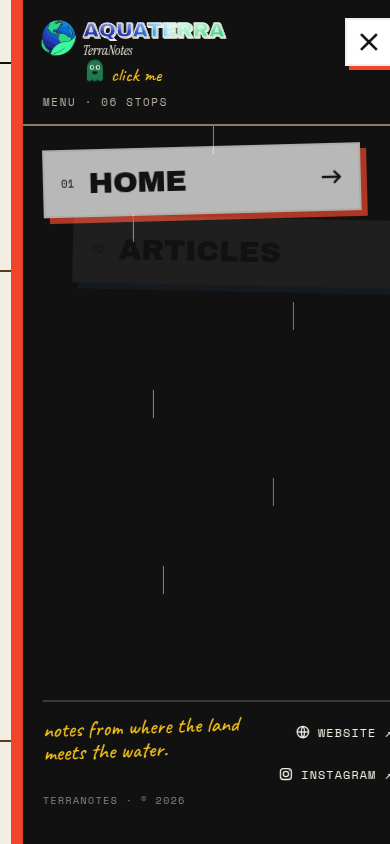
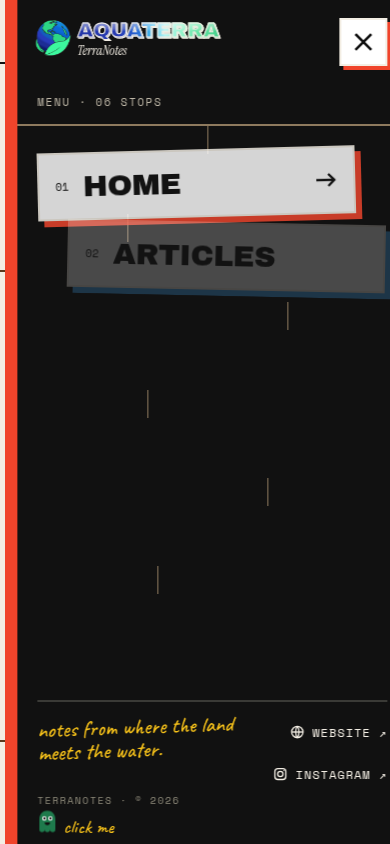
Buddy: menu call at the bottom, no hut, rope pulls back up, nicer tricks
- Phone menu: "click me" moves to the bottom, under "TerraNotes".
- Phone home: no hut; he floats in next to the intro card.
- Web: the rope lowers him, then pulls back up and leaves him floating.
- Swap the squash and melt tricks for a hop and a vanish.

Claude-Session: https://claude.ai/code/session_01CgW7HxbCpt5fYjBJ3ADamc

diff --git a/src/styles/buddy.css b/src/styles/buddy.css
@@ -13,37 +13,35 @@
 .buddy-ghost:focus-visible{outline:2px dashed #7B5CE6;outline-offset:4px}
 .buddy-trick{display:block;transform-origin:50% 60%}
 
-/* roping down from under the header */
-.buddy-swing{transform-origin:32px 0;animation:buddySwing 3.4s ease-in-out infinite alternate}
-.buddy-arrive .buddy-line{transform-origin:50% 0;animation:buddyRope 1.9s cubic-bezier(.3,.1,.3,1) both}
-.buddy-arrive .buddy-hang{animation:buddyDrop 1.9s cubic-bezier(.3,.1,.3,1) both}
-.buddy-arrive .buddy-swing{animation:buddySwing 3.4s ease-in-out 1.9s infinite alternate}
-@keyframes buddyRope{from{transform:scaleY(0)}to{transform:scaleY(1)}}
-@keyframes buddyDrop{0%{transform:translateY(-108px);opacity:0}8%{opacity:1}84%{transform:translateY(6px)}92%{transform:translateY(-3px)}100%{transform:translateY(0)}}
-@keyframes buddySwing{from{transform:rotate(-3deg)}to{transform:rotate(3deg)}}
+/* roping down from under the header, then the rope pulls back up and he floats */
+.buddy-bob{animation:buddyBob 2.6s ease-in-out infinite}
+.buddy-arrive .buddy-line{transform-origin:50% 0;animation:buddyRope 2.9s cubic-bezier(.3,.1,.3,1) both}
+.buddy-arrive .buddy-hang{animation:buddyDrop 1.8s cubic-bezier(.3,.1,.3,1) both}
+.buddy-arrive .buddy-bob{animation:buddyBob 2.6s ease-in-out 2.9s infinite}
+@keyframes buddyRope{0%{transform:scaleY(0)}62%{transform:scaleY(1);animation-timing-function:ease-in}72%{transform:scaleY(1);animation-timing-function:ease-in}100%{transform:scaleY(0)}}
+@keyframes buddyDrop{from{transform:translateY(-108px)}to{transform:none}}
+@keyframes buddyBob{0%,100%{transform:translateY(0)}50%{transform:translateY(-6px)}}
 
-/* the hut */
-.buddy-bob{animation:buddyBob 2.4s ease-in-out infinite}
-.buddy-float-in{animation:buddyIn .9s cubic-bezier(.3,1.4,.5,1) .35s both,buddyBob 2.4s ease-in-out 1.25s infinite}
-@keyframes buddyBob{0%,100%{transform:translateY(0)}50%{transform:translateY(-5px)}}
-@keyframes buddyIn{from{transform:translate(18px,14px) scale(.3);opacity:0}to{transform:none;opacity:1}}
+/* phone: floats in from the side */
+.buddy-float-in{animation:buddyIn 1s cubic-bezier(.3,1.3,.5,1) .3s both}
+@keyframes buddyIn{from{transform:translate(60px,-20px) rotate(20deg);opacity:0}to{transform:none;opacity:1}}
 
 /* tricks */
 .buddy-spin{animation:bSpin .8s cubic-bezier(.5,0,.3,1)}
-.buddy-boing{animation:bBoing .9s ease-out}
+.buddy-hop{animation:bHop .8s cubic-bezier(.3,0,.3,1)}
 .buddy-flip{animation:bFlip 1s ease-in-out}
-.buddy-melt{animation:bMelt 1.3s ease-in-out}
+.buddy-vanish{animation:bVanish 1.4s ease-in-out}
 .buddy-boo{animation:bBoo .9s ease-out}
 .buddy-wobble{animation:bWobble .8s ease-in-out}
-@keyframes bSpin{0%{transform:none}40%{transform:translateY(-14px) rotate(200deg) scale(1.1)}100%{transform:rotate(360deg)}}
-@keyframes bBoing{0%{transform:none}20%{transform:scale(1.3,.65) translateY(10px)}45%{transform:scale(.8,1.25) translateY(-22px)}65%{transform:scale(1.12,.9)}80%{transform:scale(.96,1.04)}100%{transform:none}}
+@keyframes bSpin{0%{transform:none}40%{transform:translateY(-14px) rotate(200deg)}100%{transform:rotate(360deg)}}
+@keyframes bHop{0%,100%{transform:none}30%{transform:translateY(-24px) rotate(-10deg)}55%{transform:translateY(-30px) rotate(8deg)}80%{transform:translateY(0) rotate(0)}90%{transform:translateY(-5px)}}
 @keyframes bFlip{0%{transform:none}35%{transform:translateY(-18px) rotate(180deg)}65%{transform:translateY(-18px) rotate(180deg)}100%{transform:rotate(360deg)}}
-@keyframes bMelt{0%{transform:none}35%,60%{transform:translateY(22%) scale(1.25,.35)}100%{transform:none}}
-@keyframes bBoo{0%{transform:none}25%{transform:scale(1.45)}35%{transform:scale(1.4) rotate(-7deg)}45%{transform:scale(1.4) rotate(7deg)}55%{transform:scale(1.4) rotate(-5deg)}100%{transform:none}}
+@keyframes bVanish{0%,100%{opacity:1;transform:none}35%,55%{opacity:0;transform:translateY(-10px)}70%{opacity:.6;transform:translateX(4px)}}
+@keyframes bBoo{0%{transform:none}25%{transform:scale(1.4)}35%{transform:scale(1.4) rotate(-7deg)}45%{transform:scale(1.4) rotate(7deg)}55%{transform:scale(1.4) rotate(-5deg)}100%{transform:none}}
 @keyframes bWobble{0%,100%{transform:none}20%{transform:rotate(-16deg) translateX(-6px)}40%{transform:rotate(12deg) translateX(5px)}60%{transform:rotate(-8deg)}80%{transform:rotate(4deg)}}
 
-/* phone menu: under the logo */
-.buddy-menu-call{position:absolute;left:60px;top:calc(60px + var(--lift) * .4);display:flex;align-items:center;gap:6px;min-height:30px;padding:0 6px 0 2px;background:transparent;border:0;color:#F7C21A;font-family:'Caveat',cursive;font-size:19px;line-height:1;cursor:pointer}
+/* phone menu: the bottom, under "TerraNotes" */
+.buddy-menu-call{position:absolute;left:14px;bottom:0;display:flex;align-items:center;gap:6px;min-height:34px;padding:0 6px;background:transparent;border:0;color:#F7C21A;font-family:'Caveat',cursive;font-size:19px;line-height:1;cursor:pointer}
 .buddy-menu-call svg{animation:buddyBob 2s ease-in-out infinite}
 
 /* skip link: off screen until it has keyboard focus */
@@ -51,7 +49,7 @@
 .skip-link:focus{transform:none;outline:2px solid #F7C21A;outline-offset:2px}
 
 @media (prefers-reduced-motion: reduce){
-  .buddy-swing,.buddy-bob,.buddy-float-in,.buddy-menu-call svg,.buddy-arrive .buddy-line,.buddy-arrive .buddy-hang,.buddy-arrive .buddy-swing,.buddy-trick{animation:none!important}
+  .buddy-bob,.buddy-float-in,.buddy-menu-call svg,.buddy-arrive .buddy-line,.buddy-arrive .buddy-hang,.buddy-trick{animation:none!important}
   .buddy-call,.buddy-call-label,.skip-link{transition:none}
   .buddy-peek:not(:hover){animation:buddyPeekStill 1.8s linear}
   @keyframes buddyPeekStill{0%,100%{opacity:0}20%,80%{opacity:.9}}

diff --git a/src/components/buddy/Buddy.jsx b/src/components/buddy/Buddy.jsx
@@ -5,9 +5,9 @@ import { callBuddy, openGames, useBuddy } from '../../lib/buddy.js';
 import '../../styles/buddy.css';
 
 // Buddy: a little ghost. Called from a hidden button in the web header's corner (he ropes down) or from the phone
-// menu's "click me" (he moves into a hut by the intro). He stays until the page is reloaded.
+// menu's "click me" (he floats in by the intro). He stays until the page is reloaded.
 // Tap him: he does a trick and asks if you want to play (Snake or Float, see Games.jsx).
-const TRICKS = ['spin', 'boing', 'flip', 'melt', 'boo', 'wobble'];
+const TRICKS = ['spin', 'hop', 'flip', 'vanish', 'boo', 'wobble'];
 const MONO = { fontFamily: "'Space Mono', monospace", fontWeight: "700", letterSpacing: "1.2px", textTransform: "uppercase" };
 
 function TapGhost({ size, bubbleStyle }) {
@@ -83,14 +83,15 @@ function CallButton() {
 // Web home, top right, under the Website / Instagram buttons.
 export function WebBuddy() {
   const { here, fresh } = useBuddy();
+  const [rope, setRope] = useState(true); // the rope lowers him, then pulls back up and leaves him floating
   return (
     <>
       {!here && <CallButton />}
       {here && (
-        <div className={fresh ? 'buddy-rope buddy-arrive' : 'buddy-rope'} style={{ position: "absolute", left: "1296px", top: "80px", width: "64px", zIndex: "6" }}>
-          <div className="buddy-swing">
-            <div className="buddy-line" style={{ marginLeft: "31px", width: "2px", height: "108px", background: "#8E7A5E" }} />
-            <div className="buddy-hang">
+        <div className={fresh ? 'buddy-arrive' : undefined} style={{ position: "absolute", left: "1296px", top: "80px", width: "64px", zIndex: "6" }}>
+          {fresh && rope && <div className="buddy-line" onAnimationEnd={() => setRope(false)} style={{ position: "absolute", left: "31px", top: "0", width: "2px", height: "114px", background: "#8E7A5E" }} />}
+          <div className="buddy-hang" style={{ paddingTop: "108px" }}>
+            <div className="buddy-bob">
               <TapGhost size={64} bubbleStyle={{ right: "0", top: "84px" }} />
             </div>
           </div>
@@ -100,29 +101,21 @@ export function WebBuddy() {
   );
 }
 
-// Phone home: his hut, next to the intro card.
-export function HutBuddy() {
+// Phone home: he floats next to the intro card.
+export function PhoneBuddy() {
   const { here, fresh } = useBuddy();
   if (!here) return null;
   return (
-    <div className={fresh ? 'buddy-hut card-drop' : 'buddy-hut'} style={{ position: "absolute", left: "284px", top: "196px", width: "92px", height: "96px", zIndex: "5" }}>
-      <svg width="92" height="96" viewBox="0 0 92 96" aria-hidden="true" style={{ position: "absolute", left: "0", top: "0" }}>
-        <rect x="12" y="40" width="68" height="52" fill="#FBF8F1" stroke="#111111" strokeWidth="2.5" />
-        <path d="M34 92 V64 a12 12 0 0 1 24 0 V92 Z" fill="#1E2723" stroke="#111111" strokeWidth="2.5" />
-        <path d="M4 44 L46 8 L88 44 Z" fill="#F0442B" stroke="#111111" strokeWidth="2.5" strokeLinejoin="round" />
-        <path d="M20 46 h8 v8 h-8 Z" fill="#F7C21A" stroke="#111111" strokeWidth="2" />
-        <path d="M64 18 v-10 h8 v17" fill="#8E7A5E" stroke="#111111" strokeWidth="2" />
-        <path d="M0 94 H92" stroke="#111111" strokeWidth="2.5" />
-      </svg>
-      <div className={fresh ? 'buddy-bob buddy-float-in' : 'buddy-bob'} style={{ position: "absolute", left: "30px", top: "46px" }}>
-        <TapGhost size={34} bubbleStyle={{ right: "-6px", top: "50px" }} />
+    <div className={fresh ? 'buddy-float-in' : undefined} style={{ position: "absolute", left: "298px", top: "170px", width: "70px", zIndex: "5" }}>
+      <div style={{ fontFamily: "'Caveat', cursive", fontSize: "18px", color: "#5B3A1E", transform: "rotate(6deg)", whiteSpace: "nowrap", pointerEvents: "none", textAlign: "center", marginBottom: "4px" }}>tap him</div>
+      <div className="buddy-bob" style={{ display: "flex", justifyContent: "center" }}>
+        <TapGhost size={46} bubbleStyle={{ right: "0", top: "60px" }} />
       </div>
-      <div style={{ position: "absolute", right: "-4px", top: "-20px", fontFamily: "'Caveat', cursive", fontSize: "17px", color: "#5B3A1E", transform: "rotate(6deg)", whiteSpace: "nowrap", pointerEvents: "none" }}>tap him</div>
     </div>
   );
 }
 
-// Phone menu, under the logo: "click me". Calls him, closes the menu and heads home to the hut.
+// Phone menu, at the bottom under "TerraNotes": "click me". Calls him, closes the menu and heads home.
 export function MenuCall({ onClose }) {
   const nav = useNavigate();
   const { pathname } = useLocation();

diff --git a/src/components/Menu.jsx b/src/components/Menu.jsx
@@ -45,7 +45,6 @@ export default function Menu({ current = 'home', open, onClose }) {
           <Logo globe={36} word={21} sub={13} dark />
         </SmartLink>
       </div>
-      <MenuCall onClose={close} />
       <button className="press" onClick={close} aria-label="Close menu" style={{ "--c": "#F0442B", position: "absolute", right: "20px", top: "18px", width: "48px", height: "48px", background: "#FFFFFF", border: "2px solid #F3EEE4", boxShadow: "4px 4px 0 #F0442B", padding: "0", display: "flex", alignItems: "center", justifyContent: "center" }}>
         <svg width="20" height="20" viewBox="0 0 20 20" fill="none" stroke="#111111" strokeWidth="2.6" strokeLinecap="square">
           <path d="M3 3 L17 17" />
@@ -77,6 +76,7 @@ export default function Menu({ current = 'home', open, onClose }) {
         <a href={SITE.website} target="_blank" rel="noreferrer" aria-label="Aquaterra website (ngoaquaterra.com)" style={{ position: "absolute", right: "20px", top: "12px", minHeight: "40px", display: "flex", alignItems: "center", gap: "8px", fontFamily: "'Space Mono', monospace", fontSize: "12px", letterSpacing: "1px", textTransform: "uppercase", textDecoration: "none", color: "#F3EEE4" }}><GlobeIcon />Website ↗</a>
         <a href={instagramUrl(SITE.instagram)} target="_blank" rel="noreferrer" aria-label={`Aquaterra on Instagram (@${SITE.instagram})`} style={{ position: "absolute", right: "20px", top: "54px", minHeight: "40px", display: "flex", alignItems: "center", gap: "8px", fontFamily: "'Space Mono', monospace", fontSize: "12px", letterSpacing: "1px", textTransform: "uppercase", textDecoration: "none", color: "#F3EEE4" }}><InstagramIcon />Instagram ↗</a>
         <div style={{ position: "absolute", left: "20px", bottom: "36px", fontFamily: "'Space Mono', monospace", fontSize: "10px", letterSpacing: "1.4px", color: "#8E8A7A" }}>TERRANOTES · © {new Date().getFullYear()}</div>
+        <MenuCall onClose={close} />
       </div>
     </nav>
   );

diff --git a/src/pages/Home.jsx b/src/pages/Home.jsx
@@ -11,7 +11,7 @@ import Members, { MEMBERS_HEIGHT } from '../components/home/Members.jsx';
 import PhotoViewer from '../components/home/PhotoViewer.jsx';
 import { SITE } from '../data/site.js';
 import Logo from '../components/Logo.jsx';
-import { HutBuddy } from '../components/buddy/Buddy.jsx';
+import { PhoneBuddy } from '../components/buddy/Buddy.jsx';
 
 // Home. Everything below the sticky header is absolutely placed in a 390px-wide page.
 // motion={false} turns off the sway/float animations.
@@ -46,7 +46,7 @@ export default function Home({ motion = true }) {
             </svg>
           </button>
         </header>
-        <HutBuddy />
+        <PhoneBuddy />
         {/* intro card; the red knot is where the "Articles" string is tied */}
         <section style={{ position: "absolute", left: "20px", top: "118px", width: "250px", transform: "rotate(-1deg)", zIndex: "3" }}>
           <div style={{ position: "absolute", left: "7px", top: "7px", width: "250px", height: "200px", background: "#111111" }} />
